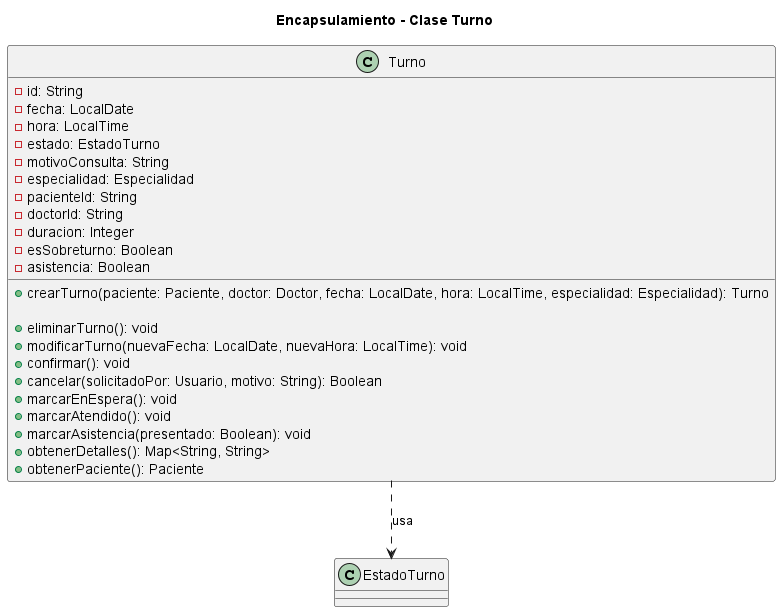
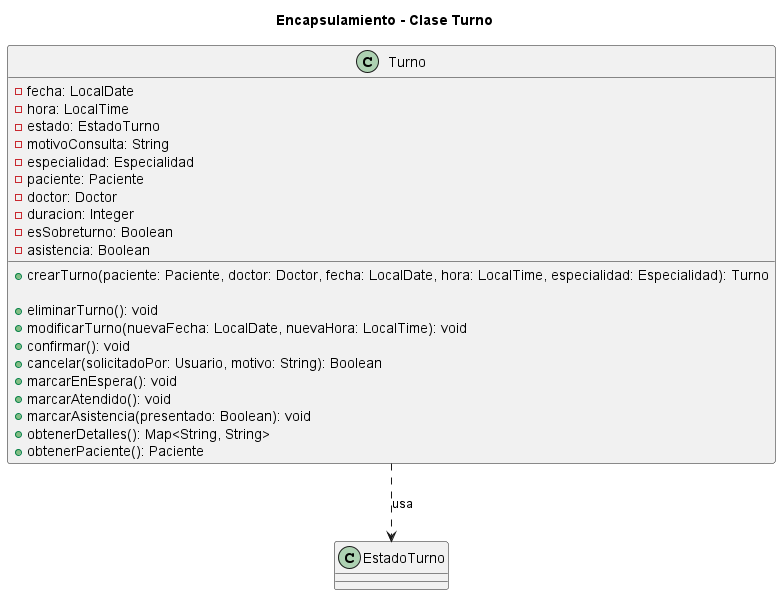
corrijo

Changed region(s): [[0.0, 0.0303, 0.9834, 0.484], [0.0, 0.5143, 0.9834, 0.7866], [0.4302, 0.8471, 0.5839, 0.9983]]

diff --git a/anexos/fundamentos-doo-mesa-645003-matricula-159237/doo-encapsulamiento.md b/anexos/fundamentos-doo-mesa-645003-matricula-159237/doo-encapsulamiento.md
@@ -76,14 +76,13 @@ El siguiente pseudocódigo representa la aplicación del encapsulamiento en la c
 ```java
 public class Turno {
 
-    private String id;
     private LocalDate fecha;
     private LocalTime hora;
     private EstadoTurno estado;
     private String motivoConsulta;
     private Especialidad especialidad;
-    private String pacienteId;
-    private String doctorId;
+    private Paciente paciente;
+    private Doctor doctor;
     private Integer duracion;
     private Boolean esSobreturno;
     private Boolean asistencia;

diff --git a/anexos/fundamentos-doo-mesa-645003-matricula-159237/doo-herencia.md b/anexos/fundamentos-doo-mesa-645003-matricula-159237/doo-herencia.md
@@ -113,7 +113,6 @@ El siguiente pseudocódigo representa la jerarquía de clases definida en el dia
 ```java
 public abstract class Usuario {
 
-    private String id;
     private String nombre;
     private String apellido;
     private String email;

diff --git a/changelog.md b/changelog.md
@@ -1,5 +1,7 @@
 # Changelog
 
+## [Unreleased]
+
 ## [Examen Final] - 2026-07-15
 
 ### Added
